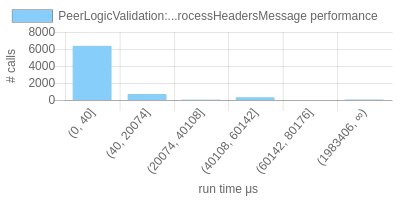
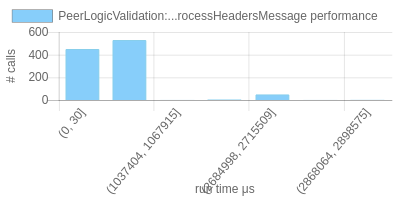
Work on profiling.

diff --git a/doc/presentations/performance-profiling.tex b/doc/presentations/performance-profiling.tex
@@ -114,29 +114,34 @@ On the machine on which the transactions were submitted (located in Markham, Can
 However, the speeds with which the transactions were received in our London and Mumbai machines were considerably worse. Tables \ref{tableArrivalTimesToLondon} and \ref{tableArrivalTimesToMumbai} show histograms of the arrival times - on the horizontal axis we have indicated the arrival delay in milliseconds (split into $50$ buckets of width about $1$ second each) and on the vertical axis we have indicated the number of txids that have arrived within the given time range.
 \begin{table}
 	\begin{center}
-	\includegraphics[width = 7cm]{./images/mempoolArrivals18_130_88_126.png}
+	\includegraphics[width = 7cm]{./images/mempoolArrivalsLondon.png}
 	\end{center}
 	\caption{\label{tableArrivalTimesToLondon} Arrival delays in milliseconds Canada $ \to$ UK}
 \end{table}
 
 \begin{table}
 	\begin{center}
-		\includegraphics[width = 7cm]{./images/mempoolArrivals13_232_20_11.png}
+		\includegraphics[width = 7cm]{./images/mempoolArrivalsMumbai.png}
 	\end{center}
 	\caption{\label{tableArrivalTimesToMumbai} Arrival delays in milliseconds Canada $ \to$ India}
 \end{table}
 
-For both machines, it took between $50$ and $60$ seconds for all transactions to arrive. Compared to about $400$ milliseconds needed for the transactions to be accepted to the first machine, this comprises a significant delay. The arrival times appear to be grouped into ``packets'' of size between $20$ to $40$ 
-transactions. It seems that this behavior is intentional and may be due to internal throttling of the network. Further investigation is required, however it is clear that with this performance we cannot propagate $1000$ transactions per second. Our conclusion here is that Kanban cannot rely on the fabcoin's networking stack ``out of the box'' as that was not designed to meet our performance goals. 
+For both machines, it took between $50$ and $60$ seconds for all transactions to arrive. Compared to about $400$ milliseconds needed for the transactions to be accepted to the first machine, this comprises a significant delay. The arrival times appear to be grouped into ``packets'' of size between $20$ to about $60$ transactions. It seems that this behavior is intentional and may be due to internal throttling of the network. Further investigation is required, however it is clear that with this performance we cannot propagate $1000$ transactions per second. Our conclusion here is that Kanban cannot rely on the fabcoin's networking stack ``out of the box'' as that was not designed to meet our performance goals. 
 
 \subsection{Performance monitoring on mainNet}
 In the following tables, we present our results from monitoring mainNet over about 19 hours from our London and Mumbai machines. The first column of the two profiling tables shows the name of the function we profiled. Nesting of profiled functions is indicated by the $ \to $ arrow. The second column shows how many times did the function run over the course of our profiling. The third column shows the average run time of the function in microseconds. Please bear in mind that nested function calls incur a small performance penalty from the profiling code. For functions that call other profiled functions themselves, the fourth column indicates the run time of the function excluding the time of the profiled subroutines.
 
 
 \subsubsection{Commentary}
-Our histograms are centered as follows. First, we gather statistics without collecting histogram samples. Once we have averaged over a given number of runs (hand-coded for each function, defaults to $100$), we center our histogram using the average and choose the histogram so it has $50$ or less buckets on each side of the average. 
- 
+Our statistics appear to show that the data management aspects - database access speeds and RAM memory management - are not a significant bottleneck for our system at the moment. For example the function \verb|VerifyScript|, which does all the cryptographic checks, has average run speed of about .... microseconds
+
+
+
 On both machines, the functions \verb|AcceptToMemoryPoolWorker| (and all of its callers) has a spike in run time that lies outside of the range of the histogram, causing all data to accumulate in the last bin of the histogram.
+
+Our histograms are centered as follows. First, we gather statistics without collecting histogram samples. Once we have averaged over a given number of runs (hand-coded for each function, defaults to $100$), we center our histogram using the average and choose the histogram so it has $50$ or less buckets on each side of the average. Evidently this strategy does not record well the performance of  \verb|AcceptToMemoryPoolWorker|; more work is required to gather more accurate statistics. Since this function has (on both the London and Mumbai machines) an average run time of some $6.5$ ms and is not called very frequently (several hundred times per day at the time of writing), investigating the matter does not appear to be of very high priority. 
+
+
 
 
 \subsubsection{London machine}
